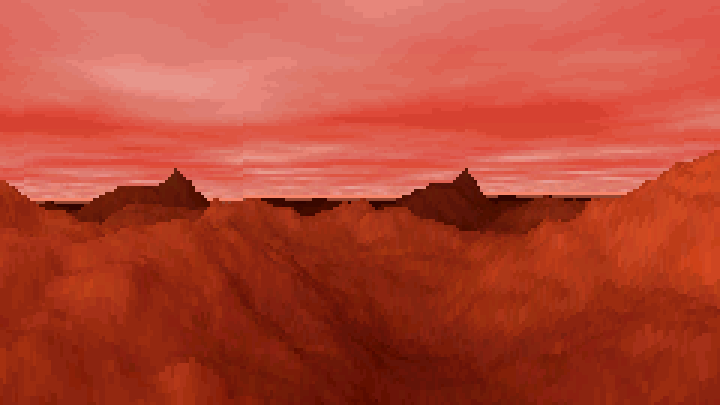
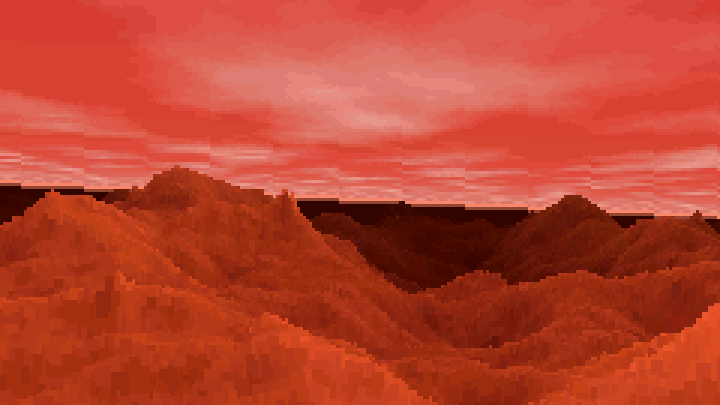
Record the M5Burner upload of v1.0.0
The chosen cover replaces docs/screenshot.png; docs/m5burner.md and
CLAUDE.md note the category, the upload date and the review status.

diff --git a/CLAUDE.md b/CLAUDE.md
@@ -220,7 +220,12 @@ cp .pio/build/sticks3/firmware-merged.bin dist/MARS-v<version>.bin
 
 v1.0.0 (2026-09-29): the image was flashed with `esptool.py write_flash 0x0`,
 the way M5Burner does it, and the board booted and flew at 35 fps. The cover
-is also kept as `docs/screenshot.png`.
+(the user picked it out of five board screenshots) is also kept as
+`docs/screenshot.png`. Uploaded the same day through the user's Chrome,
+where they are logged in (Claude in Chrome can attach files; the built-in
+browser pane cannot): category Games, StickS3, Public, "Pending" review.
+The form shows a cover editor (crop, offset, optional caption); the cover
+went in as it is, with no caption.
 
 Only the StickS3 is supported for now. The same ESP32-S3 image could also
 run on the Cardputer and Cardputer ADV, since M5GFX detects them and drives

diff --git a/docs/m5burner.md b/docs/m5burner.md
@@ -6,7 +6,7 @@ burner.m5stack.com/developer/firmware/upload.
 | Field | Value |
 |---|---|
 | Name | MARS |
-| Category | Game (or Demo, if the form offers it) |
+| Category | Games |
 | Devices | StickS3 |
 | Version | v1.0.0 |
 | Project link | https://github.com/mbogatyr/M5Mars |
@@ -15,7 +15,11 @@ burner.m5stack.com/developer/firmware/upload.
 | Visibility | Public (needs moderation) |
 
 `dist/` is not in git; rebuild it as described in CLAUDE.md, "Publishing to
-M5Burner".
+M5Burner". The cover is also kept as `docs/screenshot.png`.
+
+v1.0.0 was uploaded on 2026-09-29 with exactly these values (visibility
+Public, so it waits for M5Stack's review; status "Pending" right after the
+upload).
 
 ## Description
 
